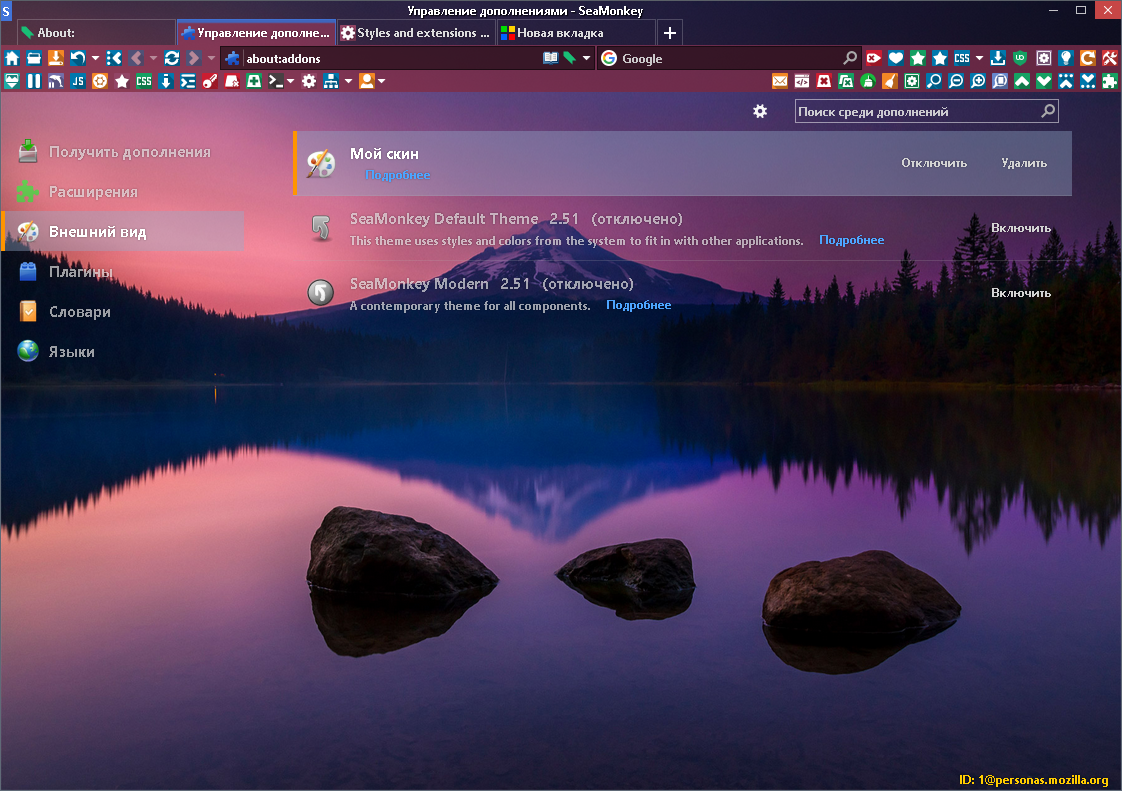
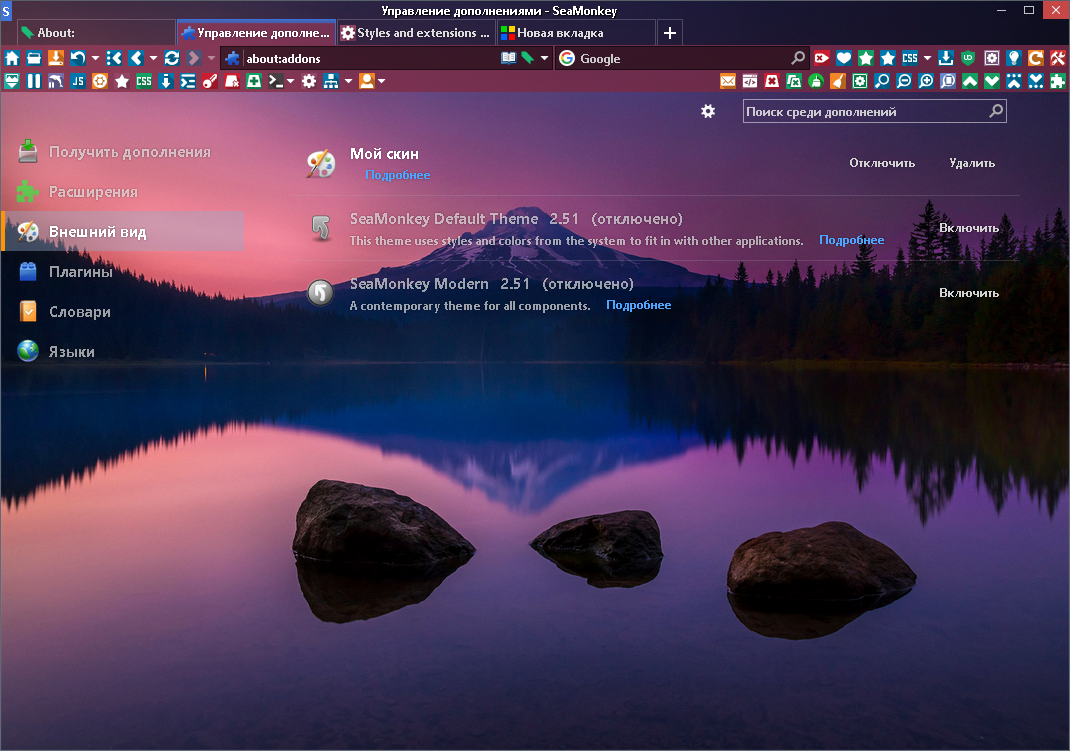
.

diff --git a/seamonkeyfullstyle.html b/seamonkeyfullstyle.html
@@ -42,9 +42,9 @@ update: 30-04-2017<br><br>
 <br><br>
 Чтобы убрать / заменить заголовок окна, установите расширение <a href="extensions.html" target="_blank">Control Buttons</a><br>
 Изменить скроллбар и тултипы можно с помощью <a href="extensions.html" target="_blank">Agent Sheet</a> или добавить CSS (код можно даже из Agent Sheet взять) в файл stylecss.css<br><br>
-<img src="stylessm/fullstyle/01.png" alt="" style="height:791px;border:none;"><br><br>
-<img src="stylessm/fullstyle/02.png" alt="" style="height:791px;border:none;"><br><br>
-<img src="stylessm/fullstyle/03.png" alt="" style="height:791px;border:none;"><br>
+<img src="stylessm/fullstyle/01.png" alt="" style="height:751px;border:none;"><br><br>
+<img src="stylessm/fullstyle/02.png" alt="" style="height:751px;border:none;"><br><br>
+<img src="stylessm/fullstyle/03.png" alt="" style="height:751px;border:none;"><br>
 </div><br><br>
 <div class="link">
 <button onclick="download();">Загрузить</button>
